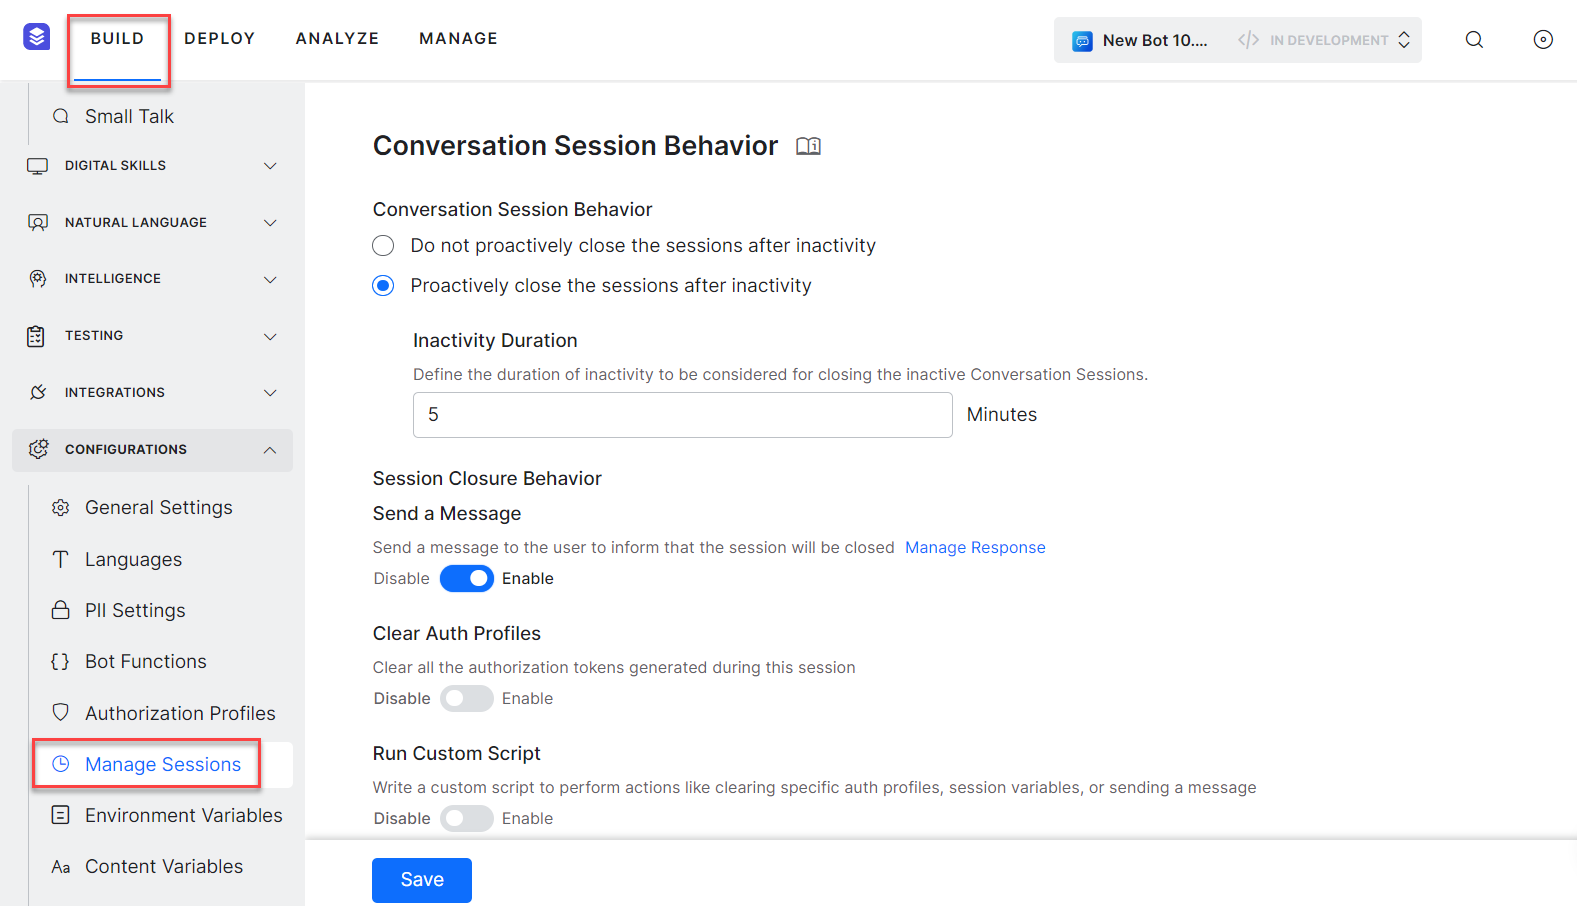
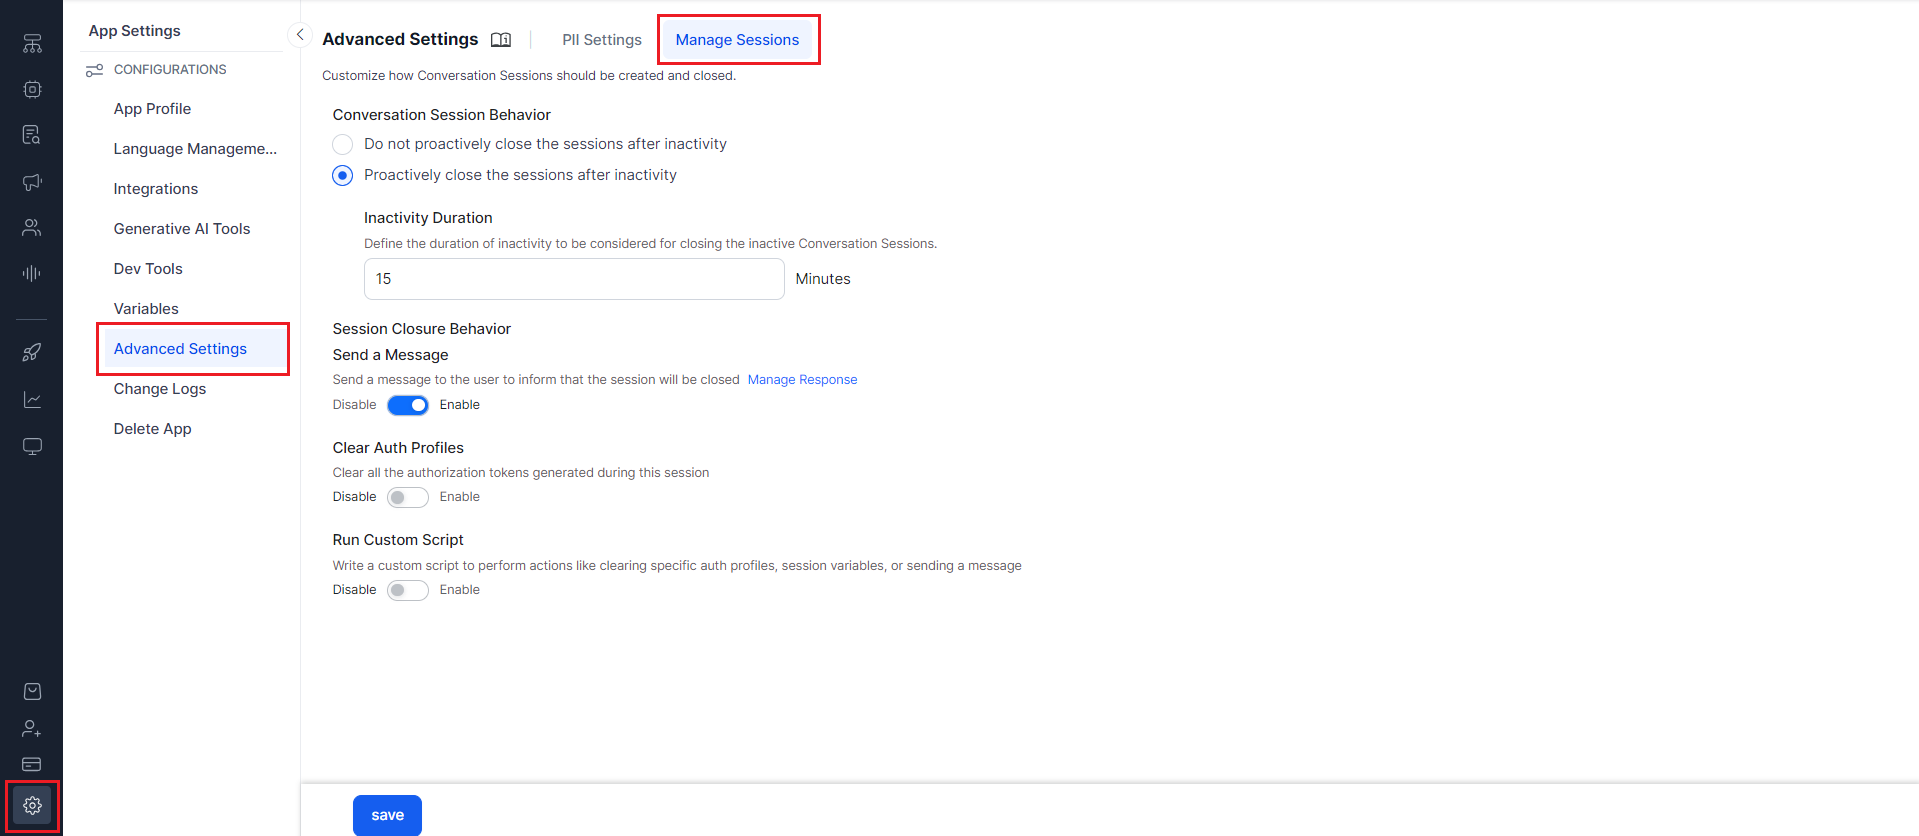
variables, advanced settings

diff --git a/docs/xo/app-settings/variables/collections.md b/docs/xo/app-settings/variables/collections.md
@@ -4,7 +4,7 @@ Collections enable you to store multiple value sets for Environment Variables so
 
 !!! note
 
-        This feature was enabled in v8.1 of the platform and is available only for the <span style="text-decoration:underline;">on-prem installation.</span>
+    This feature was enabled in v8.1 of the platform and is available only for the <span style="text-decoration:underline;">on-prem installation.</span>
 
 Environment variables are a primary type of bot variable where you define a key-value pair and use the variable across the bot. As the variables are declared globally, they can be used at any point in the bot configuration. These can be used to manage the bot variables with environment-specific values. For example, you might have _authCode_ for authenticating a service that your bot uses. This authCode may have different values in the _test, uat,_ and _prod_ environments. The bot can be exported and imported based on the environment, and the values need to be modified at one place in the variable configuration file. [Refer here for more on Bot Variables](../using-bot-variables/#environment-variables){:target="_blank"}.
 
@@ -15,8 +15,8 @@ Using collections, you can define multiple value sets for these variables and de
 
 Following are the steps in creating Collections
 
-1. From the left navigation menu, select **Settings -> Config Settings**.
-2. Click the **Environment Variables** option.
+1. From the left navigation menu, select **App Settings > Variables**.
+2. Click the **Environment Variables** tab.
 3. On the top left click the more/ellipses to access the **Manage Collections**.  
 <img src="../images/collections-img1.png" alt="Environment Variables - Manage Collections" title="Environment Variables - Manage Collections" style="border: 1px solid gray;"/> 
 

diff --git a/docs/xo/app-settings/advanced-settings/bot-sessions.md b/docs/xo/app-settings/advanced-settings/bot-sessions.md
@@ -6,7 +6,7 @@ Kore.ai virtual assistant platform allows you to customize how these Conversatio
 
 !!! note
 
-        Conversation Sessions are different from Billing Sessions, [refer here](../../../administration/billing){:target="_blank"} for more on Billing Sessions.
+    Conversation Sessions are different from Billing Sessions, [refer here](../../../administration/billing){:target="_blank"} for more on Billing Sessions.
 
 
 ## Overview
@@ -30,16 +30,16 @@ Conversation Sessions are created for all interactions with the virtual assistan
 
 !!! note
 
-        Inclusion of non-interactive and developer interactions in conversation sessions was implemented starting from ver8.0.
+     Inclusion of non-interactive and developer interactions in conversation sessions was implemented starting from ver8.0.
 
 
 ## Manage Sessions
 
 This feature is only available post v8.0 of the platform release.
 
-You can define the Conversation Session behavior sing the **Manage Sessions** option under **Configurations** from **Build** tab.
+You can define the Conversation Session behaviors in the **Manage Sessions** tab within **App Settings > Advanced Settings** tab.
 
-<img src="../images/bot-sessions-img1.png" alt="Build - Configurations - Manage Sessions" title="Build - Configurations - Manage Sessions" style="border: 1px solid gray;zoom:50%;"/>
+<img src="../images/bot-sessions-img1.png" alt="App Settings > Advanced Settings > Manage Sessions" title="App Settings > Advanced Settings > Manage Sessions" style="border: 1px solid gray;zoom:50%;"/>
 
 The following details explain the options available on the page, to define the conversation sessions.
 

diff --git a/docs/xo/app-settings/advanced-settings/pii-data-masking.md b/docs/xo/app-settings/advanced-settings/pii-data-masking.md
@@ -53,8 +53,7 @@ The platform provides the following three modes to redact specified information 
 ### How to Redact
 
 * Open the bot for which you want to configure the PII settings.
-* Select the **Build** tab from the top menu.
-* From the left menu, click **Configuration** **-> PII Settings**.
+* Navigate to **App Settings > Advanced Settings > PII Settings**.
 * The PII Redaction page opens.
 * If PII Redaction isn’t enabled for the bot, toggle the switch to **Yes**. The page now shows a list of information types whose redaction settings are configured by default.
 * To activate the redaction of any of these out-of-the-box information types, toggle the switch next to them to Enable. To edit their redaction settings, click their name.
